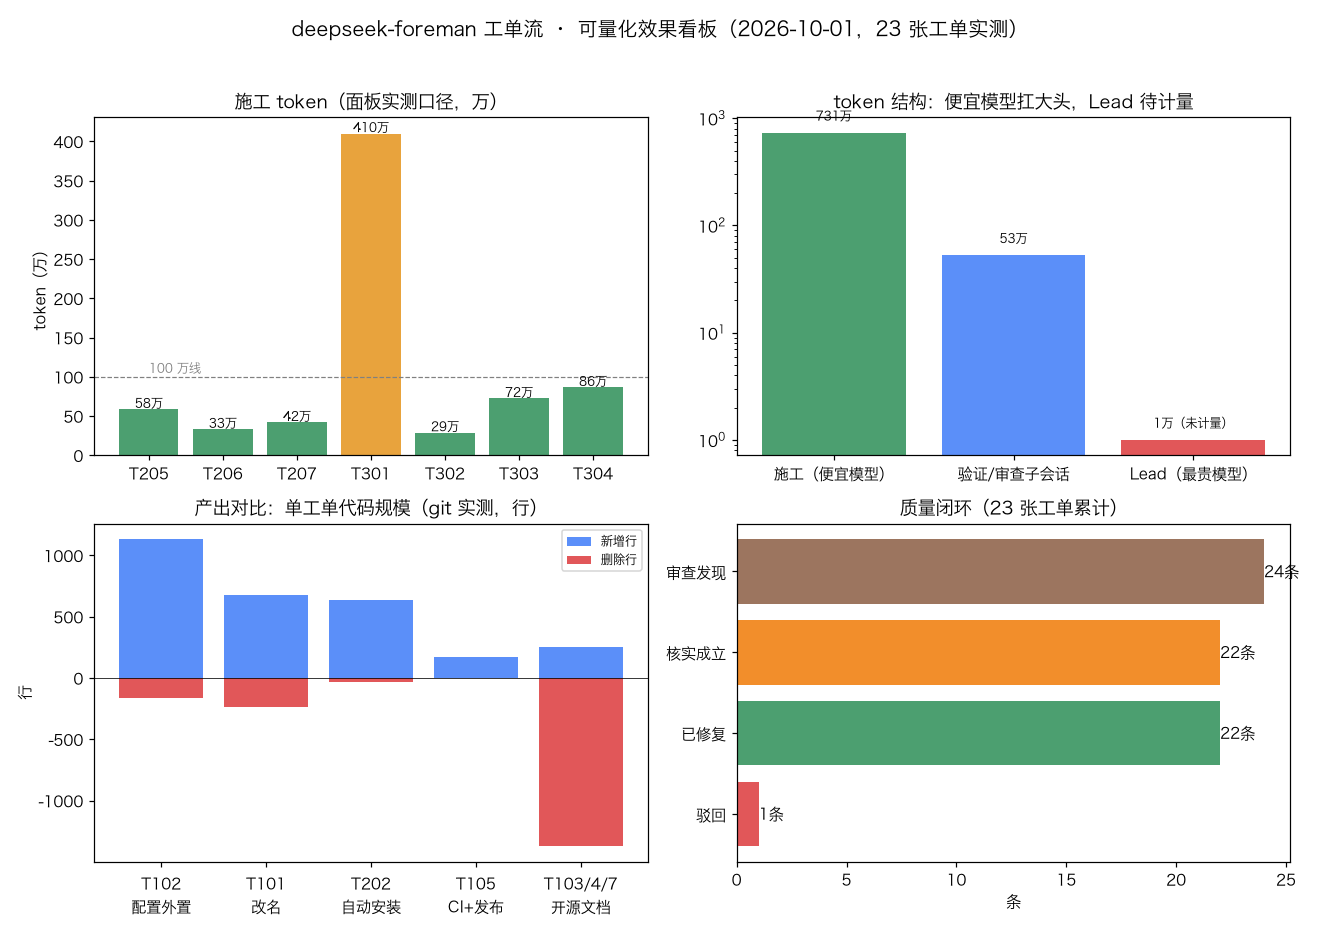
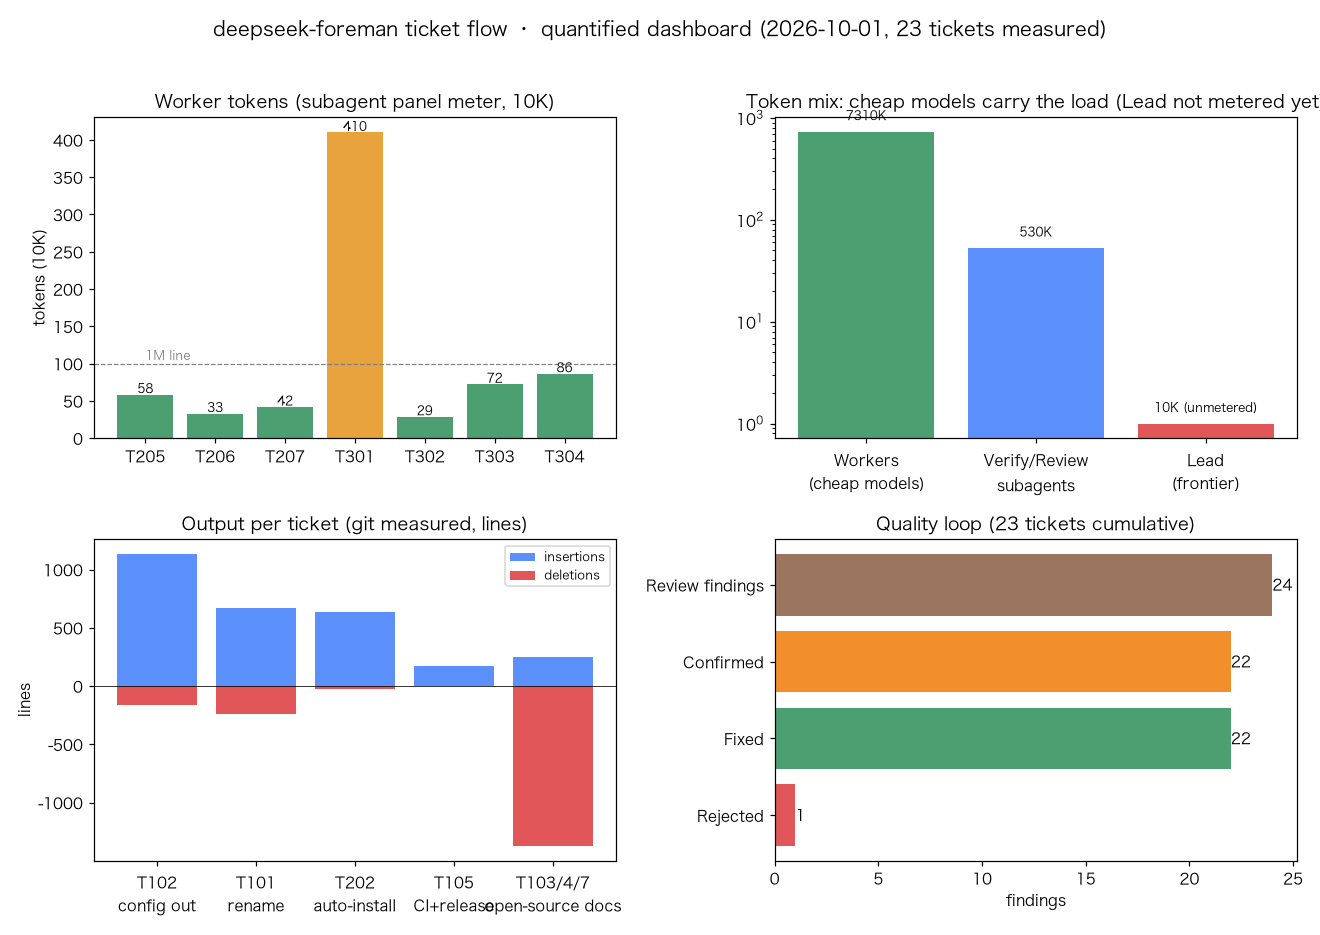
fix(v0.4.3): 隐私排除体系——图表英文化、.npmignore 排除工单/回执、privacy-check 发布前扫描

diff --git a/CHANGELOG.md b/CHANGELOG.md
@@ -11,6 +11,14 @@
 - 新增 `persona.example.md`：随包精简输出 persona 模板（9 条纪律，可选启用，复制到 system-prompt 插件 `personaPrefix`，子会话自动继承）
 - `docs/install-flow.md` 开头加「小白三步」超简版，原 0–6 步保留为完整版
 
+## [0.4.3] - 2026-10-01
+
+### 隐私与发布工程
+- 图表重制为英文（原中文图含聊天式标签）
+- ：_tickets/、_receipts/（含回执原话）永不进 npm 包
+- privacy check: CLEAN：发布前隐私扫描（私有路由名/本机路径 + 本机角色表精确值），进 release-checklist
+- README 图表改绝对链接（docs/ 不进包，npm 页可显示）
+
 ## [0.4.2] - 2026-10-01
 
 ### 首页重设计

diff --git a/README.zh-CN.md b/README.zh-CN.md
@@ -9,7 +9,7 @@
 > 面向 [DeepSeek Harness](https://github.com/deepseek-ai/deepseek-harness) 的多模型协作插件——又省又好。
 > 社区插件，与 DeepSeek 官方无隶属关系。
 
-![效果看板](docs/metrics-2026-10-01.png)
+![效果看板](https://raw.githubusercontent.com/biantao1108/deepseek-foreman/main/docs/metrics-2026-10-01.png)
 
 ## 为什么
 

diff --git a/README.md b/README.md
@@ -9,7 +9,7 @@
 > Multi-model teamwork for [DeepSeek Harness](https://github.com/deepseek-ai/deepseek-harness) — cheaper *and* better.
 > A community plugin, not affiliated with DeepSeek.
 
-![Metrics dashboard](docs/metrics-2026-10-01.png)
+![Metrics dashboard](https://raw.githubusercontent.com/biantao1108/deepseek-foreman/main/docs/metrics-2026-10-01.png)
 
 ## Why
 
